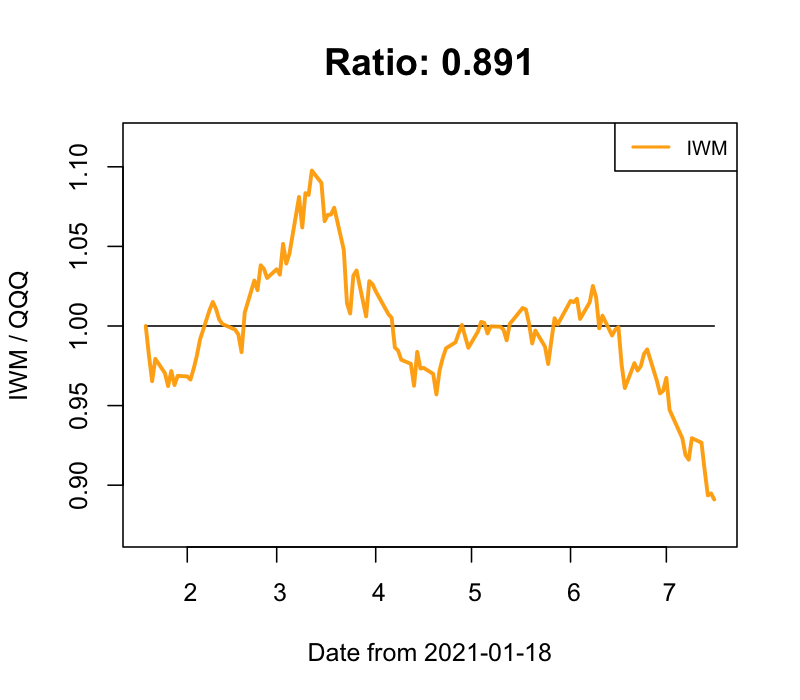
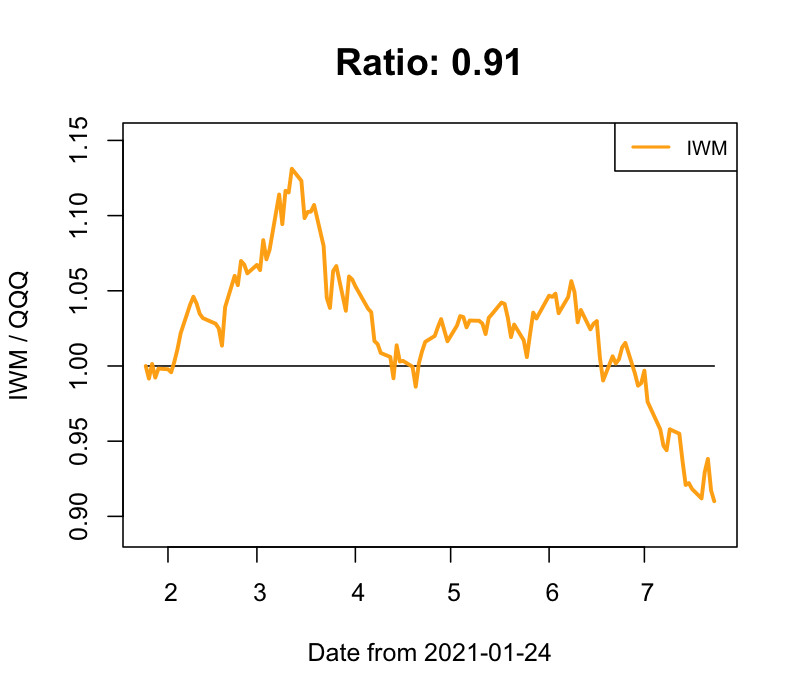
The first devel version

diff --git a/README.md b/README.md
@@ -2,31 +2,37 @@
 
 ### 逆張り投資 買いタイミング判定 ver 0.99.1
 
-- 2021-07-18 index銘柄
+- 2021-07-24 index銘柄
 
-  - 買いタイミング！: BOTZ, EBIZ, EDOC, FEZ, FINX, FXI, GDX, ICLN, PBD, SLV, SMH, SPYD, SRET, VAW, VBK, VEA, VFH, VGK, VIS, VONV, VOOV, VPL, VWO, VYM, XLF
+  - 買いタイミング！: EDOC, GDX, GDXJ, PBD, SLV, SPYD, VAW, VDE, VWO
 
-  - 強く買いタイミング！！！: IWM, GDXJ, VDE, VIOG, VXF
+  - 強く買いタイミング！！！: FXI
 
-  - 利確タイミング！: TLT
+  - 利確タイミング！: SPY, VOO, SHE, SPLG, SPTM, SUSA, VIG, VOT, VOX, XLP
 
-  - 強く利確タイミング！！！: TIP
+  - 強く利確タイミング！！！: QQQ, BUG, MGK, MILN, SPYG, TIP, VGT, VHT, VONG, VOOG, VUG, XLC, XLK, XLV
 
-- 2021-07-18 レバレッジ銘柄
+- 2021-07-24 レバレッジ銘柄
 
-  - 買いタイミング！: YINN, FAS, EDC
+  - 買いタイミング！: LABU, ERX, EDC
 
-  - 強く買いタイミング！！！: SOXL, CWEB, LABU, TNA, ERX
+  - 強く買いタイミング！！！: YINN, CWEB
 
-  - 利確する銘柄なしで、見送り
+  - 利確タイミング！: TECL, TQQQ, SPXL, QLD
 
-- 2021-07-18 個別銘柄
+  - 強く利確タイミング！！！: CURE
 
-  - 買いタイミング！: RPRX, PINS, RBLX
+  - 早めに利確タイミング！！！！: TECL, TQQQ, QLD
 
-  - 強く買いタイミング！！！: PLTR, GDRX, SNAP, AFRM, U, NVST, BLDR, ABNB, AI
+- 2021-07-24 個別銘柄
 
-  - 利確する銘柄なしで、見送り
+  - 買いタイミング！: PLTR, GDRX, RPRX, ABNB, AI
+
+  - 利確タイミング！: SQ, DOCU
+
+  - 強く利確タイミング！！！: SNAP
+
+  - 早めに利確タイミング！！！！: SQ, CRWD, DOCU
 
 ### QQQ との変化比率
 
